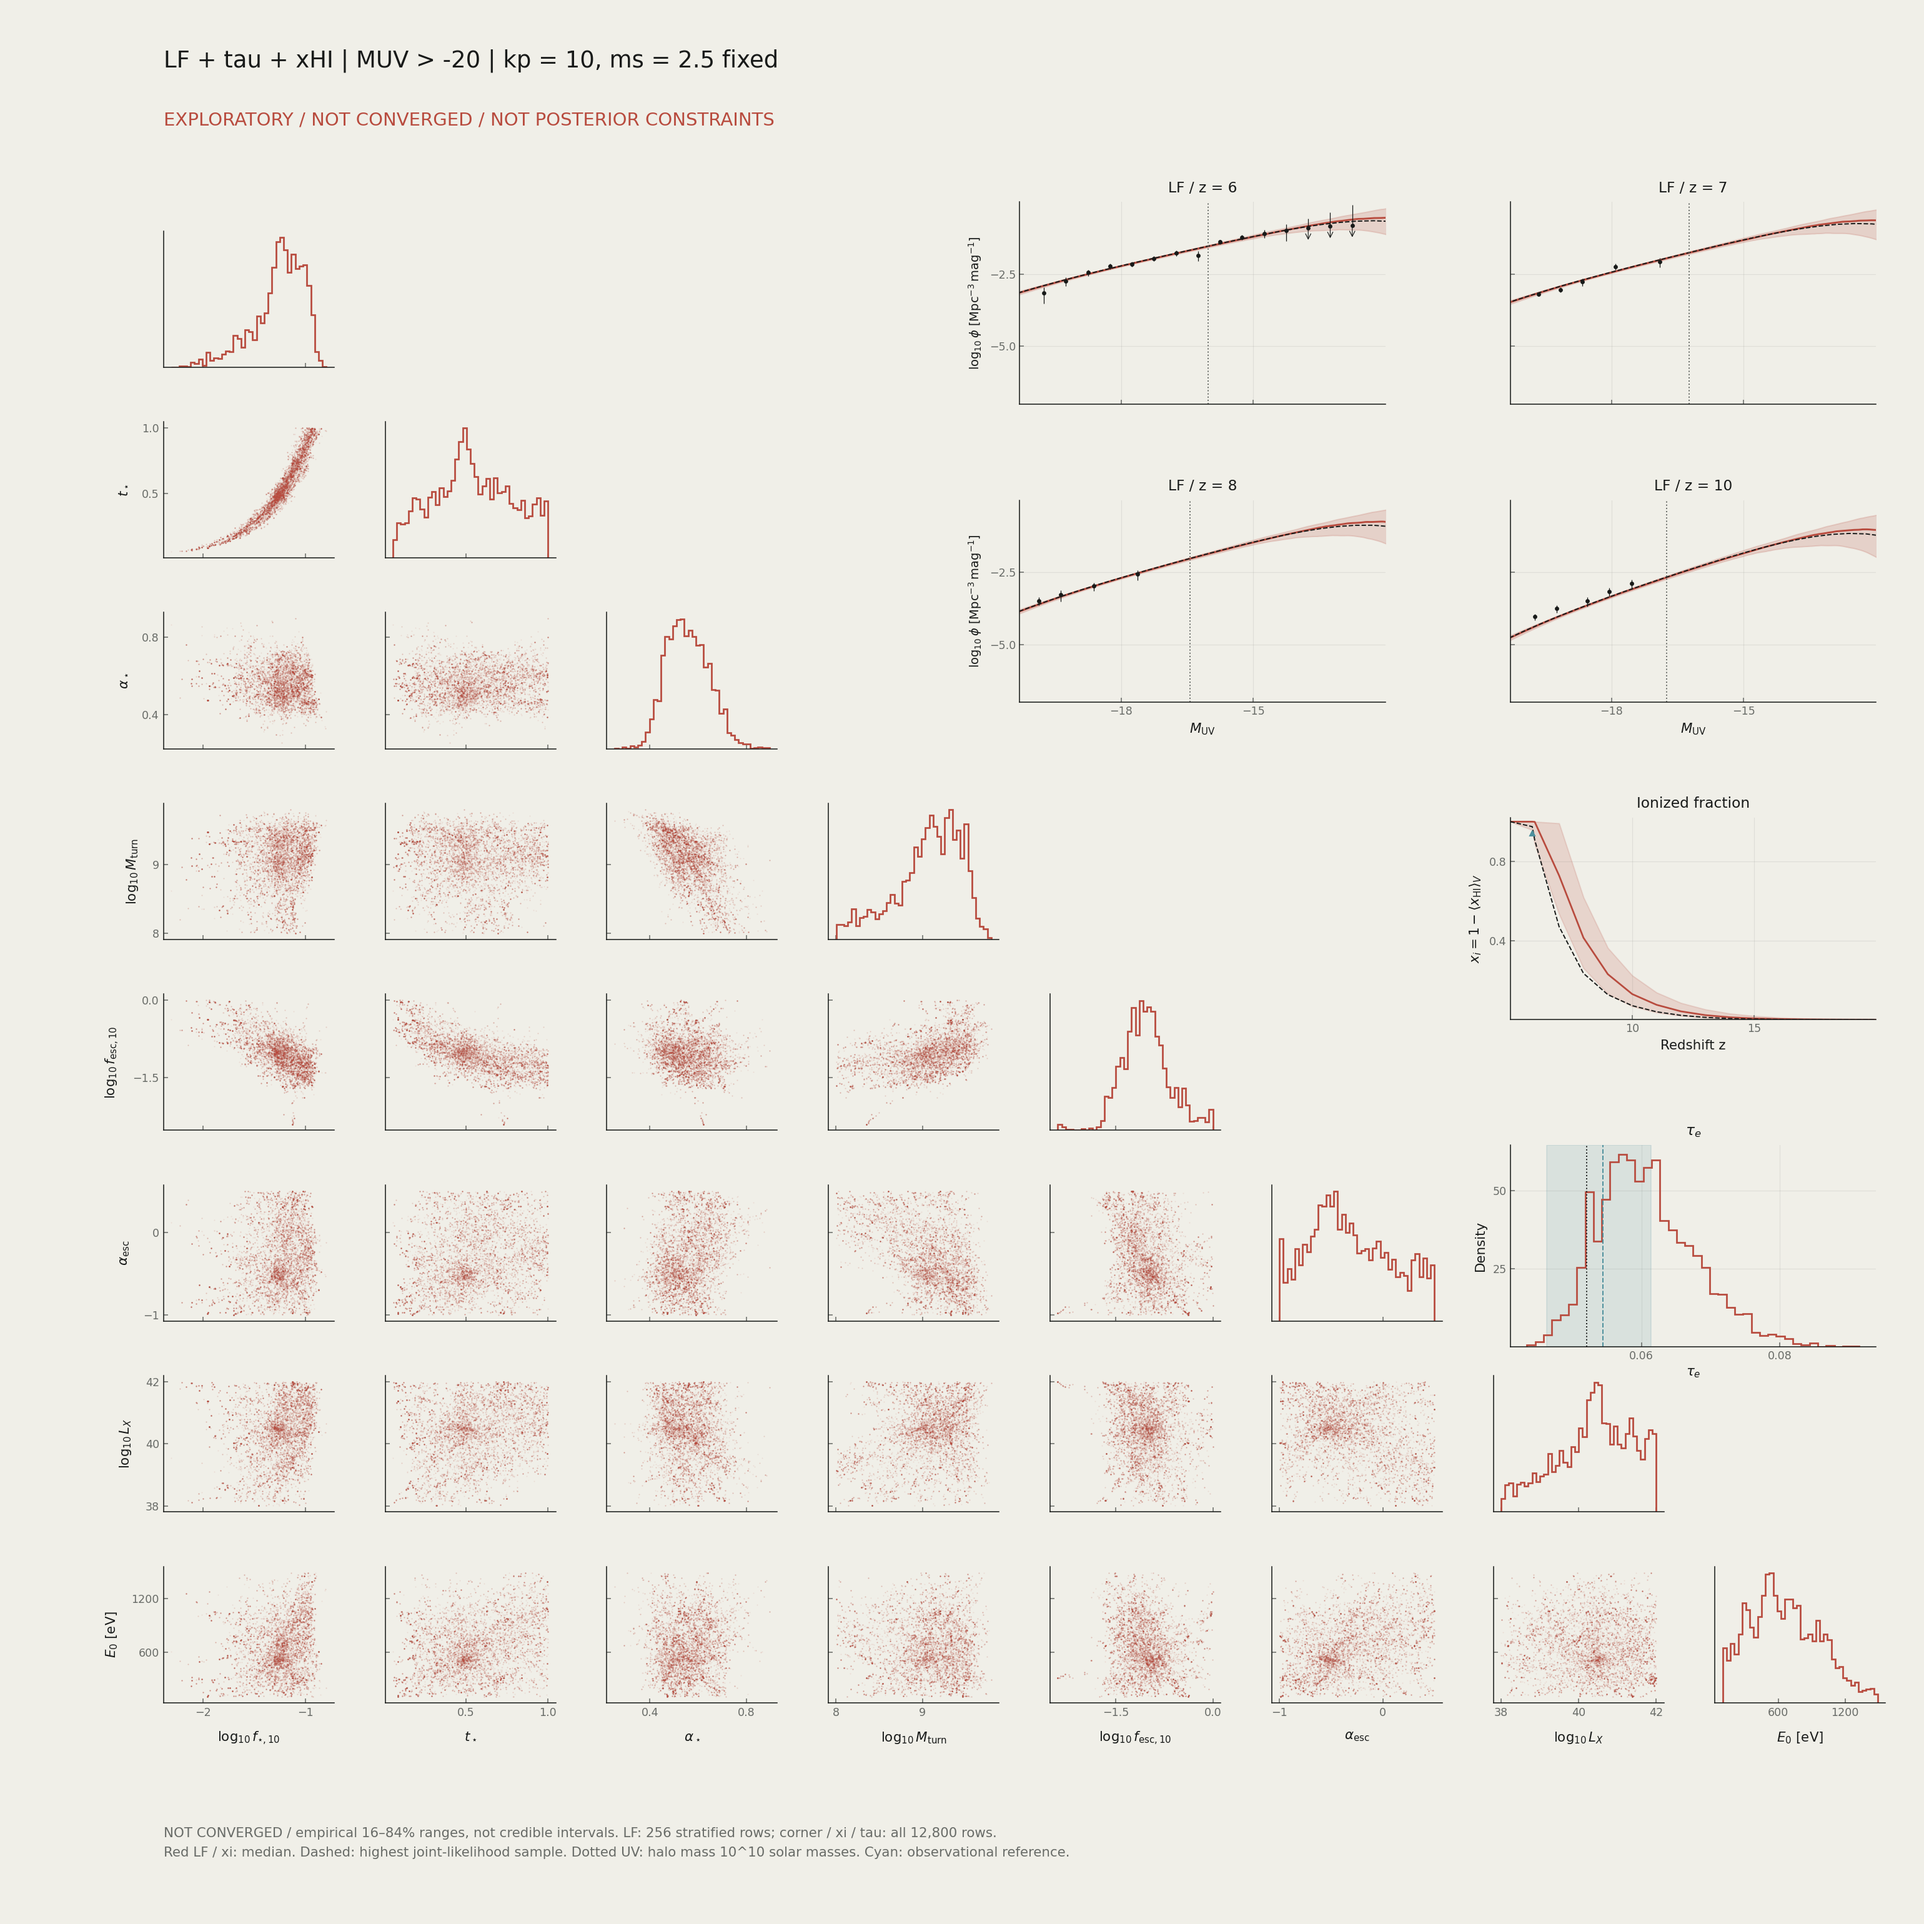
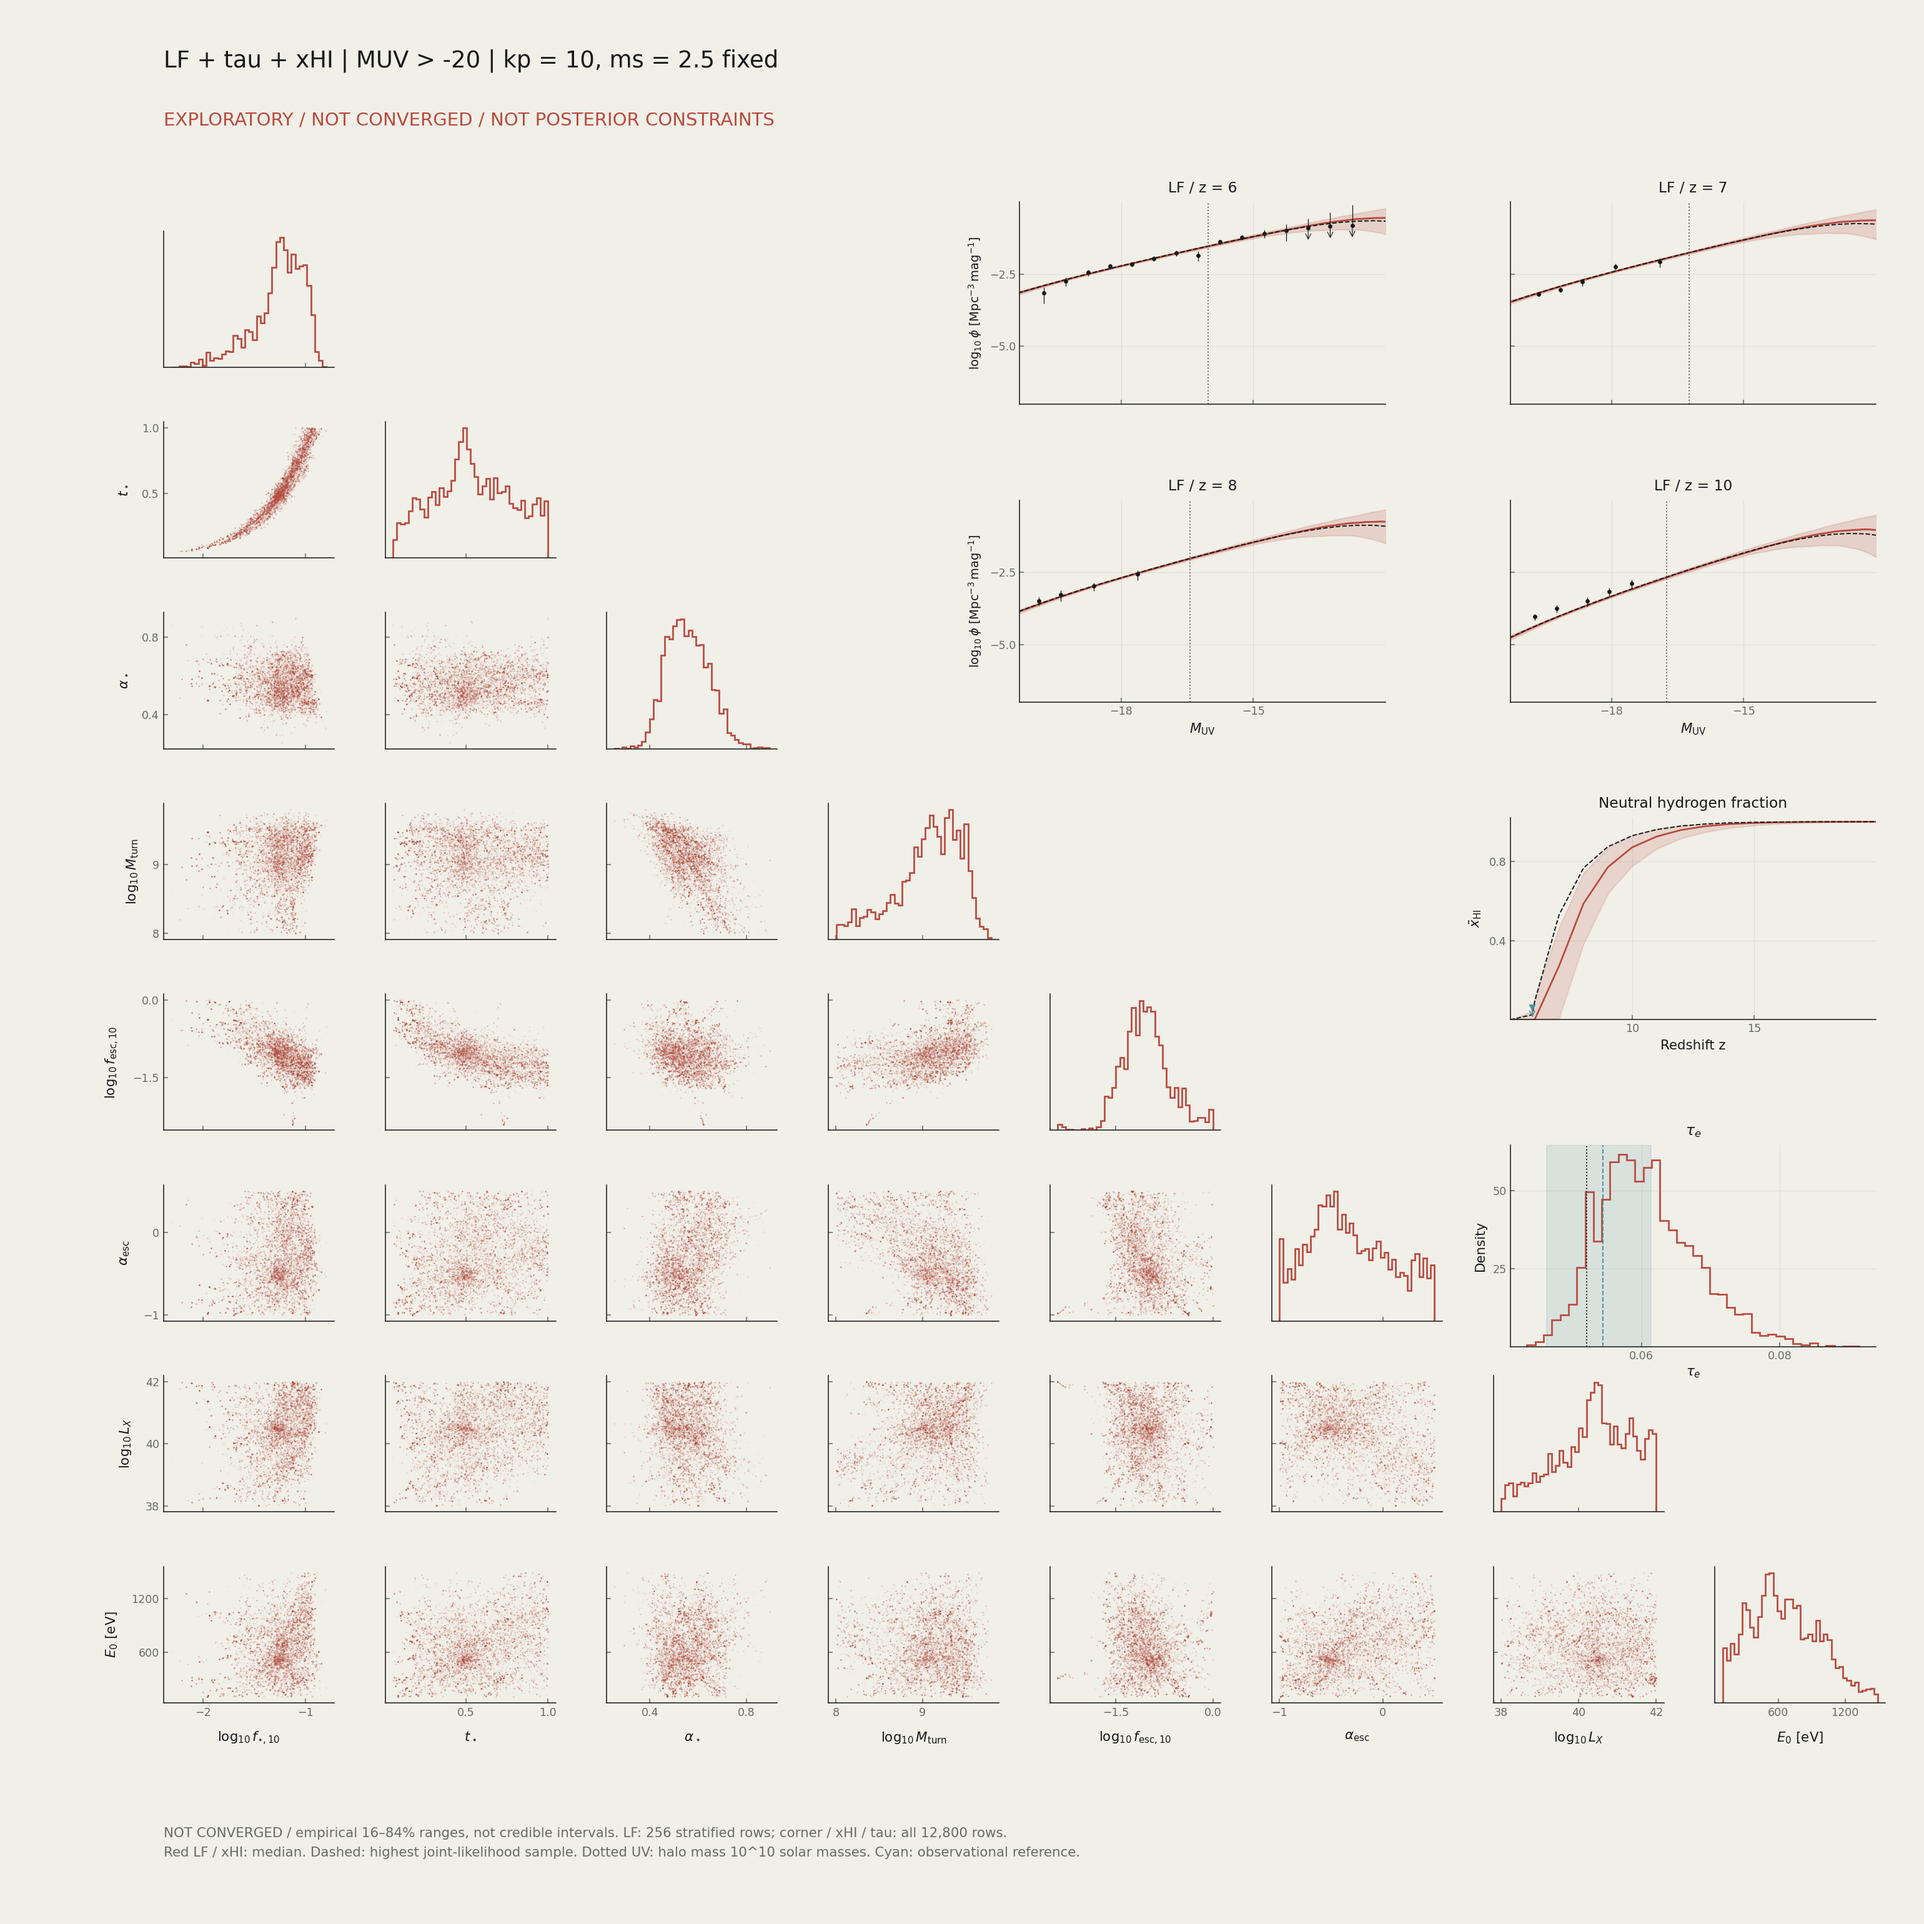
Plot neutral hydrogen fraction with correctly reversed quantile bounds

Changed region(s): [[0.7792, 0.4052, 0.9351, 0.5299], [0.4364, 0.9351, 0.5299, 0.9662]]

diff --git a/ms-corner.html b/ms-corner.html
@@ -47,21 +47,21 @@
   <section id="corner" class="ms-card" aria-labelledby="corner-title">
     <div class="section-heading"><div><span class="section-index">03</span><h2 id="corner-title" data-i18n="msSampling">Raw sampling coordinates</h2></div></div>
     <p data-i18n="msCaption">E0 + E1 pooled with equal weight per stored row; repeated states retained. Raw scatter and marginal counts, not validated posterior constraints. η★ = log₁₀(f★,10/t★).</p>
-    <a href="web_data/joint_muv20/corner_eta.png?v=08e93af74ab7"><img src="web_data/joint_muv20/corner_eta.png?v=08e93af74ab7" data-ms-alt="msEtaAlt" alt="Eight-parameter joint functional-test samples with MUV > −20; not posterior constraints"></a>
+    <a href="web_data/joint_muv20/corner_eta.png?v=4cca210d76a8"><img src="web_data/joint_muv20/corner_eta.png?v=4cca210d76a8" data-ms-alt="msEtaAlt" alt="Eight-parameter joint functional-test samples with MUV > −20; not posterior constraints"></a>
     <p class="ms-note" data-i18n="msFigureLanguage">Plot annotations remain in English; captions switch with the interface.</p>
   </section>
   <section class="ms-card"><details><summary data-i18n="msNative">Native stellar-efficiency coordinates</summary>
     <p data-i18n="msTransform">Coordinate transformation only: log₁₀ f★,10 = η★ + log₁₀ t★. No resampling or change of weights.</p>
-    <a href="web_data/joint_muv20/corner_native.png?v=0dd6066a6b3d"><img loading="lazy" src="web_data/joint_muv20/corner_native.png?v=0dd6066a6b3d" data-ms-alt="msNativeAlt" alt="Eight-parameter raw samples in native stellar coordinates"></a>
+    <a href="web_data/joint_muv20/corner_native.png?v=cd4a57c47332"><img loading="lazy" src="web_data/joint_muv20/corner_native.png?v=cd4a57c47332" data-ms-alt="msNativeAlt" alt="Eight-parameter raw samples in native stellar coordinates"></a>
   </details></section>
   <section id="pooled-observables" class="ms-card">
-    <h2 data-i18n="jointObservables">Pooled LF, optical depth &amp; ionization</h2>
-    <p data-i18n="jointObservableNote">LF: median and empirical 16–84% range from 256 stratified retained rows; dashed line: highest stored joint likelihood. Tau and xi use all 12,800 rows. Not converged; no credible-interval claim.</p>
+    <h2 data-i18n="jointObservables">Pooled LF, optical depth &amp; neutral hydrogen</h2>
+    <p data-i18n="jointObservableNote">LF: median and empirical 16–84% range from 256 stratified retained rows; dashed line: highest stored joint likelihood. Tau and neutral hydrogen fraction xHI use all 12,800 rows. Not converged; no credible-interval claim.</p>
     <p data-i18n="jointSummary">Empirical q16 / median / q84</p>
-    <p id="joint-pooled-summary">τ: 0.05378 / 0.05994 / 0.06793 · xi(z=5.9): 0.95788 / 1.00000 / 1.00000</p>
+    <p id="joint-pooled-summary">τ: 0.05378 / 0.05994 / 0.06793 · xHI(z=5.9): 0.00000 / 0.00000 / 0.04212</p>
     <a href="web_data/joint_muv20/pooled_lf.png?v=34fd2747f026"><img loading="lazy" src="web_data/joint_muv20/pooled_lf.png?v=34fd2747f026" alt="Joint-sample LF at redshifts 6, 7, 8 and 10 with observed LF points and halo-mass markers"></a>
-    <a href="web_data/joint_muv20/pooled_tau_xi.png?v=59da9f92099d"><img loading="lazy" src="web_data/joint_muv20/pooled_tau_xi.png?v=59da9f92099d" alt="Pooled optical depth and ionization histories; exploratory only"></a>
-    <div class="ms-links"><b data-i18n="jointDownloads">Download numerical data</b><a href="web_data/joint_muv20/pooled_observables.json">LF / τ / xi · JSON</a><a href="web_data/joint_muv20/pooled_lf_bands.json">LF bands / 256 rows · JSON</a><a href="web_data/joint_muv20/pooled_samples.csv">Samples · CSV</a><a href="web_data/joint_muv20/pooled_xi_history.csv">xi(z) · CSV</a></div>
+    <a href="web_data/joint_muv20/pooled_tau_xi.png?v=1e370690fa0d"><img loading="lazy" src="web_data/joint_muv20/pooled_tau_xi.png?v=1e370690fa0d" alt="Pooled optical depth and volume-mean neutral hydrogen fraction; exploratory only"></a>
+    <div class="ms-links"><b data-i18n="jointDownloads">Download numerical data</b><a href="web_data/joint_muv20/pooled_observables.json">LF / τ / xi · JSON</a><a href="web_data/joint_muv20/pooled_lf_bands.json">LF bands / 256 rows · JSON</a><a href="web_data/joint_muv20/pooled_samples.csv">Samples · CSV</a><a href="web_data/joint_muv20/pooled_xhi_history.csv">xHI(z) · CSV</a><a href="web_data/joint_muv20/pooled_xi_history.csv">xi(z) · CSV</a></div>
   </section>
   <section id="diagnostics" class="ms-card" aria-labelledby="diagnostics-title">
     <div class="section-heading"><div><span class="section-index">04</span><h2 id="diagnostics-title" data-i18n="msWhy">Execution is not convergence</h2></div></div>

diff --git a/i18n.js b/i18n.js
@@ -38,11 +38,11 @@ window.AtlasI18n = (() => {
     mcmcJointData: ["The same 34 LF points with MUV > −20, plus Planck τₑ and McGreer xHI(z = 5.9). ξ = 1 − xHI; this is not a measured full ξ(z) history. No 21-cm likelihood.","相同的 MUV > −20 的 34 个 LF 点，加上 Planck τₑ 与 McGreer xHI(z = 5.9)。ξ = 1 − xHI，不代表观测到完整 ξ(z) 历史。不使用 21 厘米似然。"],
     mcmcCompute: ["COEVAL GRID / BOX","共时模拟网格 / 盒长"],
     mcmcJointCaution: ["200 stored steps × 32 walkers × 2 ensembles after 10 initial burn-in steps each. All 12,800 correlated rows are shown, including the inherited 100-step prefix once. Not converged; no credible-interval claim.","每条链初始 burn-in 10 步后保存 200 步 × 32 walkers，两条链共 12,800 条相关记录。各自包含原有 100 步前缀一次，不重复拼接。尚未收敛，不作可信区间声明。"],
-    mcmcDiagnostics: ["LF, τ, xi · data & diagnostics ↗","LF、τ、xi · 数据与诊断 ↗"],
+    mcmcDiagnostics: ["LF, τ, xHI · data & diagnostics ↗","LF、τ、xHI · 数据与诊断 ↗"],
     mcmcJointAlt: ["Eight-parameter joint functional-test samples with MUV > −20; not posterior constraints","MUV > −20 的八参数联合功能测试样本；非后验约束"],
     mcmcJointCaption: ["E0 + E1 pooled with equal weight per stored row; repeated states retained. Raw scatter and marginal counts, not validated posterior constraints. η★ = log₁₀(f★,10/t★).", "E0 + E1 按每条已存记录等权合并，保留重复状态。显示原始散点与边缘计数，不是已验证后验约束。η★ = log₁₀(f★,10/t★)。"],
-    jointObservables: ["Pooled LF, optical depth & ionization", "合并样本的 LF、光学深度与电离比例"],
-    jointObservableNote: ["LF: median and empirical 16–84% range from 256 reproducibly selected rows (128 per ensemble); dashed line: the highest stored joint-likelihood sample. No extrapolation across missing LF bins. Tau and xi use all 12,800 saved rows. Ranges are not validated credible intervals. xi = 1 − volume-mean xHI, not electron fraction.", "LF：每条链可复现均匀抽取 128 条记录，共 256 条，画中位数与经验 16–84% 范围；虚线为联合似然最高的实际样本。不跨缺失 LF 区间外推。τ 与 xi 使用全部 12,800 条已存记录。范围不是已验证可信区间。xi = 1 − 体积平均 xHI，不是电子比例。"],
+    jointObservables: ["Pooled LF, optical depth & neutral hydrogen", "合并样本的 LF、光学深度与中性氢比例"],
+    jointObservableNote: ["LF: median and empirical 16–84% range from 256 reproducibly selected rows (128 per ensemble); dashed line: the highest stored joint-likelihood sample. No extrapolation across missing LF bins. Tau and xHI use all 12,800 saved rows. Ranges are not validated credible intervals. The history shows volume-mean neutral hydrogen fraction xHI, not ionized fraction xi. The original xi data remain separately available.", "LF：每条链可复现均匀抽取 128 条记录，共 256 条，画中位数与经验 16–84% 范围；虚线为联合似然最高的实际样本。不跨缺失 LF 区间外推。τ 与 xHI 使用全部 12,800 条已存记录。范围不是已验证可信区间。历史图显示体积平均中性氢比例 xHI，不是电离比例 xi；原 xi 数据单独保留。"],
     jointDownloads: ["Download numerical data", "下载数值数据"],
     jointSummary: ["Empirical q16 / median / q84", "经验分位数 q16 / 中位数 / q84"],
     mcmcSeparation: ["Separate chains and parameter spaces, all with MUV > −20. LF-only samples four parameters; the joint functional test samples eight at fixed kₚ = 10 and mₛ = 2.5. It cannot establish the effect of adding τ and ξ. Plot annotations remain in English.","各链与参数空间分别记录，统一 MUV > −20。LF-only 采样四参数，联合功能测试在固定 kₚ = 10、mₛ = 2.5 下采样八参数，尚不能据此判断加入 τ、ξ 的影响。图内标注保留英文。"],

diff --git a/index.html b/index.html
@@ -244,11 +244,11 @@
             <div><dt data-i18n="mcmcCompute">COEVAL GRID / BOX</dt><dd>128³ / 250 cMpc</dd></div>
           </dl>
           <p class="inference-detail" data-i18n="mcmcJointCaution">200 stored steps × 32 walkers × 2 ensembles after 10 initial burn-in steps each. All 12,800 correlated rows are shown, including the inherited 100-step prefix once. Not converged; no credible-interval claim.</p>
-          <a class="system-action" href="ms-corner.html#pooled-observables" data-i18n="mcmcDiagnostics">LF, τ, xi · data &amp; diagnostics ↗</a>
+          <a class="system-action" href="ms-corner.html#pooled-observables" data-i18n="mcmcDiagnostics">LF, τ, xHI · data &amp; diagnostics ↗</a>
         </div>
         <figure class="inference-figure">
-          <a id="mcmc-joint-open" href="web_data/joint_muv20/corner_eta.png?v=08e93af74ab7" target="_blank" rel="noopener" data-i18n-title="mcmcOpen" title="Open full-resolution figure">
-            <img id="mcmc-joint-image" src="web_data/joint_muv20/corner_eta.png?v=08e93af74ab7" width="3080" height="3080" loading="lazy" decoding="async" data-i18n-alt="mcmcJointAlt" alt="Eight-parameter joint functional-test samples; not posterior constraints">
+          <a id="mcmc-joint-open" href="web_data/joint_muv20/corner_eta.png?v=4cca210d76a8" target="_blank" rel="noopener" data-i18n-title="mcmcOpen" title="Open full-resolution figure">
+            <img id="mcmc-joint-image" src="web_data/joint_muv20/corner_eta.png?v=4cca210d76a8" width="3080" height="3080" loading="lazy" decoding="async" data-i18n-alt="mcmcJointAlt" alt="Eight-parameter joint functional-test samples; not posterior constraints">
           </a>
           <figcaption><span>FIG / 06B</span><span data-i18n="mcmcJointCaption">E0 + E1 pooled with equal weight per stored row; repeated states retained. Raw scatter and marginal counts, not validated posterior constraints. η★ = log₁₀(f★,10/t★).</span></figcaption>
         </figure>
